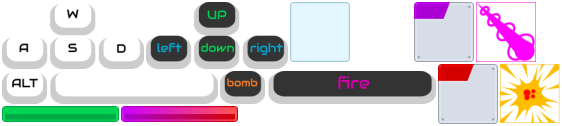
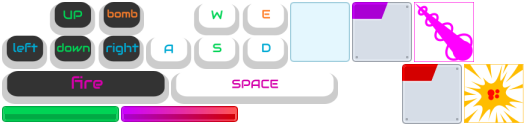
Removed unused images and fixed key controls to alt to e change

diff --git a/src/states/options.js b/src/states/options.js
@@ -71,14 +71,14 @@ Options.prototype =
     {
         // WASD Key Sprite
        var wasdKeys = game.add.sprite(0, 0, 'ui-atlas', 'wasd-keys', this.hud);
-       wasdKeys.scale.setTo(1.4, 1.4);
+       wasdKeys.scale.setTo(1.8, 1.8);
        wasdKeys.anchor.setTo(0.5);
        wasdKeys.x = optionsPanelCenter.x;
        wasdKeys.y = optionsPanelCenter.y - 180;
        
        // ALT and Space Key Sprite
        var altSpaceKeys = game.add.sprite(0, 0, 'ui-atlas', 'alt-space-keys', this.hud);
-       altSpaceKeys.scale.setTo(1.4, 1.4);
+       altSpaceKeys.scale.setTo(1.8, 1.8);
        altSpaceKeys.anchor.setTo(0.5);
        altSpaceKeys.x = optionsPanelCenter.x;
        altSpaceKeys.y = optionsPanelCenter.y - 180 + wasdKeys.height;
